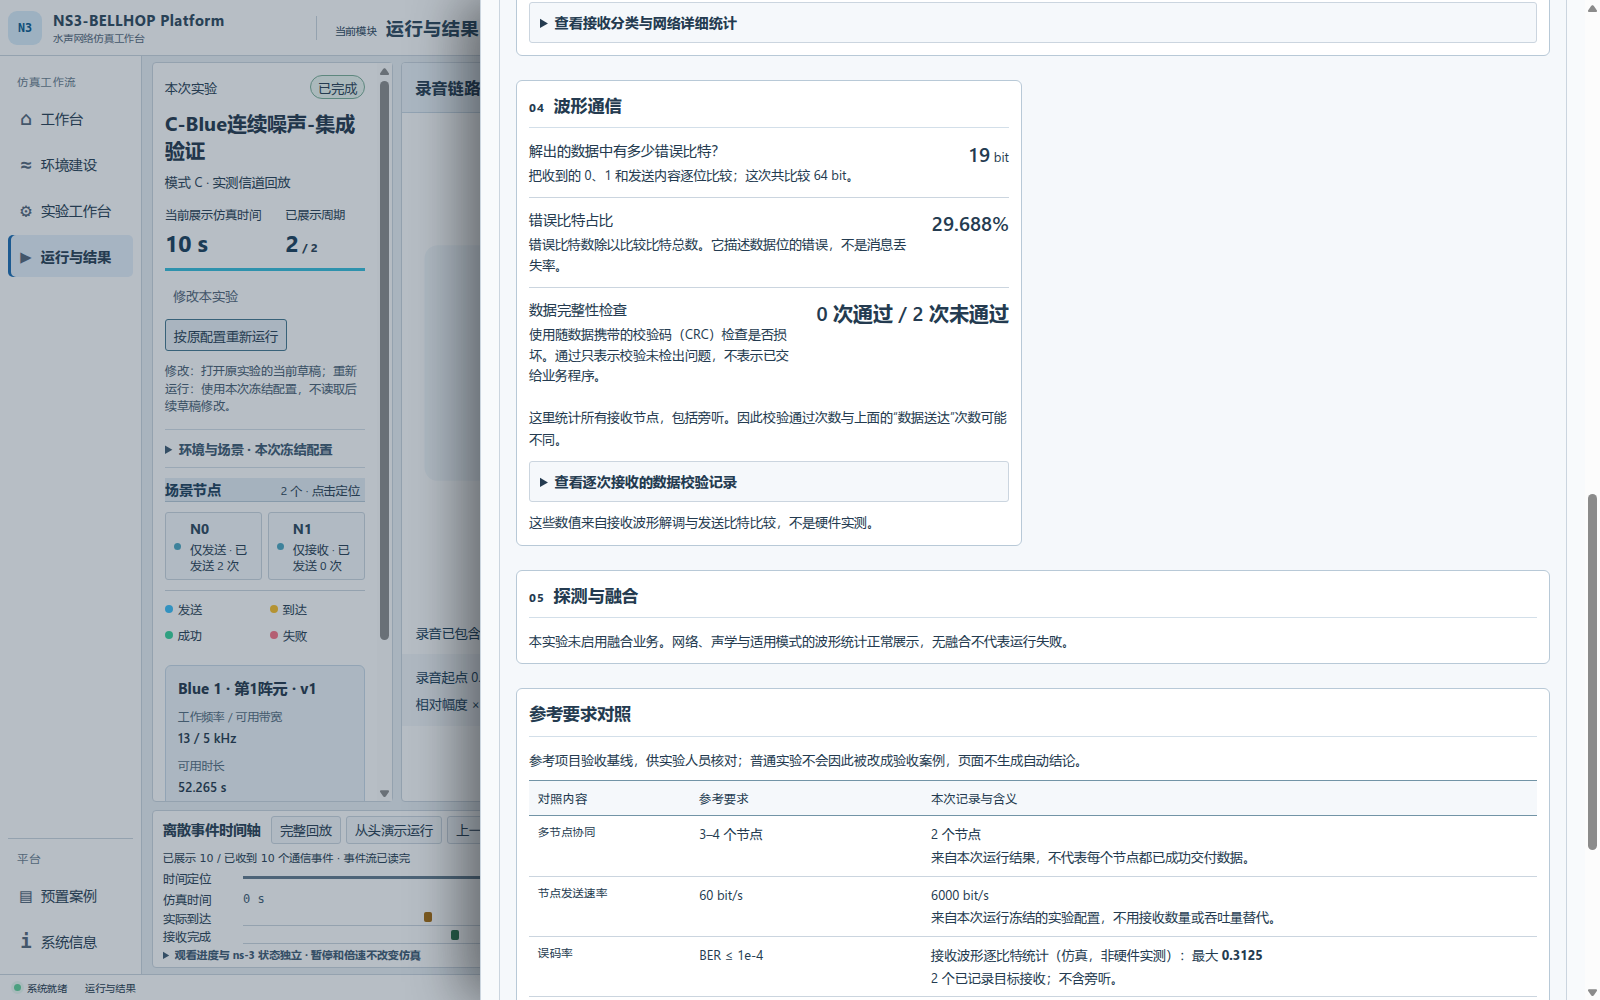
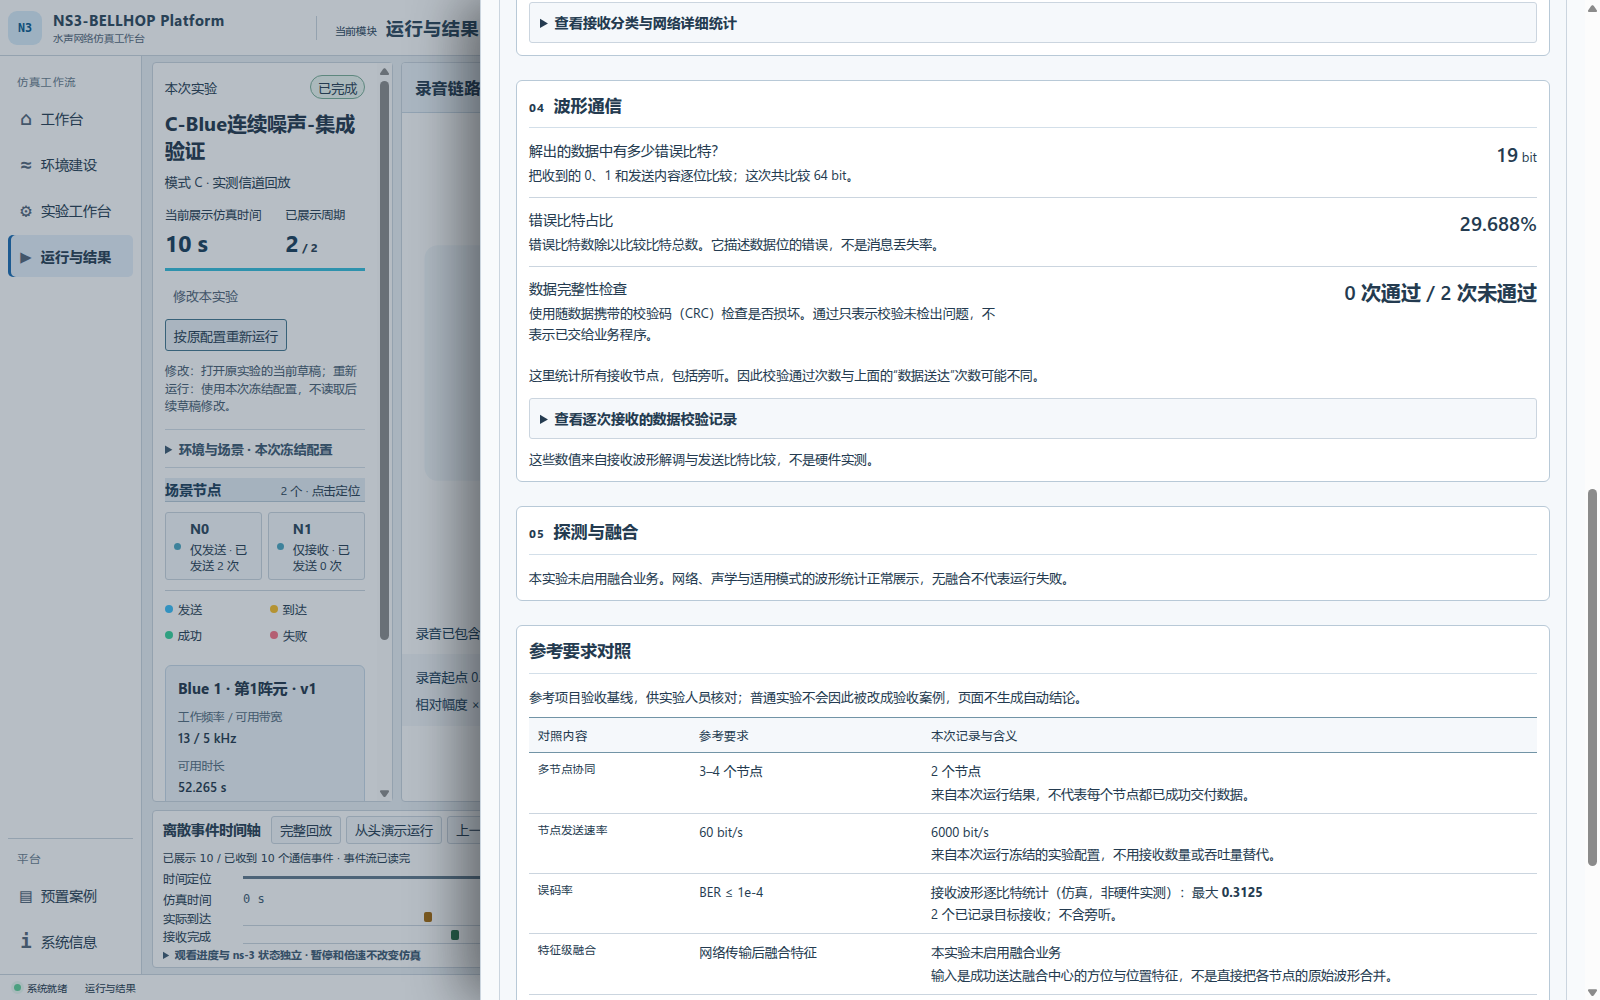
docs: refresh final deployed UI evidence and reproducible runs

diff --git a/Platform/docs/channel3/closeout.md b/Platform/docs/channel3/closeout.md
@@ -11,7 +11,7 @@
 | 2 OSDM 正式接入 | B 模式增加调制选项及 6 项分块/同步参数；规划使用含训练、CRC、补齐、CP 的实际时长；同步失败正常返回未解码 | 通用 authored worker、无噪声/AWGN/Wenz、强噪声及原算法回归通过；页面保存重开和运行通过 |
 | 3 官方等价回放 | 原生 C++ 时变卷积、相位、延迟漂移、非整数时钟重采样；官方离线连续噪声，运行时按时间切片 | 5 组合成数值分支 + 真实 Blue 第 1 阵元；相对 L2 最大 2.50e-13，小于项目门槛 1e-6；无拟合对齐 |
 | 4 资源与执行链 | 不可变录音/噪声资源、精确版本、正式静止轨迹、authored v4、run-owned provider；原通用 ns-3 执行链 | 无噪声/连续噪声两组真实 C E2E；重复一致；版本、覆盖、损坏反例拒绝；不访问 Bellhop 作为 fallback |
-| 5 前端与操作 | 同一工作台切换 C；录音与噪声选择、OSDM 配置、链路示意、同一运行/结果页；原实验重开 | 页面实际保存、运行、回放、查看结果、重跑、改错；275 项前端测试通过；截图逐张检查 |
+| 5 前端与操作 | 同一工作台切换 C；录音与噪声选择、OSDM 配置、链路示意、同一运行/结果页；原实验重开 | 页面实际保存、运行、回放、查看结果、重跑、改错；275 项前端测试通过；截图逐张检查，B 的 OSDM 窄栏与 C 结果空列已作最后样式收口 |
 | 6 回归与原位部署 | ON/OFF、原案例/算法包、性能检查；保全数据，先验证旧包可恢复，再更新原入口 | ON 124/124，OFF 82/82；所有原算法包保留；仅 4182/8012 主入口，保持运行 |
 
 这里的“官方等价”限于锁定库作者参考实现及已测数据/分支，不是国际标准认证，不能外推为所有海域、所有调制配置均可成功解码。
@@ -21,12 +21,12 @@
 - 基线：`7468e59df88348c304a0eb3f03ecc0be67d58b0b`。
 - 普通合入队友分支 `feature/channel12-comparison-experiment` 的 `34ca091242e85a0a5cafffc071358c6c93309be6`，包含 C 原始功能；未覆盖当前通用执行及 ALG-02 接口。
 - 核心/后台受测源码：`23b27dcbf42cc6748fe6170810db72e7c9c36b44`。
-- 最终前端受测源码：`1155584cce6eed1aa43daa5b7523c9cf82ab8268`。相对核心提交只改前端、相关测试和源数据锁定清单；没有重新生成未经测试的仿真程序。
+- 最终前端受测源码：`090d6891dbd88726621727860f1a4a20671fd68b`。相对核心提交，运行代码只改前端，另有相关测试、文档和源数据锁定清单；没有重新生成未经测试的仿真程序。
[3 lines of base64/hex data omitted]
 - 主入口：`http://127.0.0.1:4182`；API：`http://127.0.0.1:8012`；原脚本 `./start-platform.sh`。
-- 本机配置：`Platform/.runtime/current-system.env`。后台固定于 `channel3-system-23b27dc/Platform/backend/src`，前端固定于 `channel3-frontend-DGyfKJdY`；用户数据继续使用原 `retained-system/data`。
-- 发布标识：`OSDM-UWA-INTEGRATION-20261016-UI1155584`。`/system/info` 的 source_revision 是实际后台源码，frontend_release 是实际前端产物，算法程序身份另由安装 manifest 固定。
+- 本机配置：`Platform/.runtime/current-system.env`。后台固定于 `channel3-system-23b27dc/Platform/backend/src`，前端固定于 `channel3-frontend-eZZApcsW`；用户数据继续使用原 `retained-system/data`。
+- 发布标识：`OSDM-UWA-INTEGRATION-20261016-UI090d689`。`/system/info` 的 source_revision 是实际后台源码，frontend_release 是实际前端产物，算法程序身份另由安装 manifest 固定。
 
 保留的算法：`platform.adaptive-tdma`、`user.integration_multifile`、`user.integration_probe`、`example.flow-round-robin`、`user.closeout_probe`。没有用只含内置算法的测试 worker 替换用户累积安装版本。
 
@@ -39,7 +39,7 @@
 | C 新建/保存 | 选择 Blue 第 1 阵元、固定连续噪声、OSDM；生成正式示意端点轨迹和场景，保存后有修订反馈 | `09-final-c-editor.png`；此前保存记录见 pre-ui-polish-runs.json |
 | C 非法输入与恢复 | 录音起点 51 s、实验 10 s；明确报片段不足，不创建替代运行；改回 0 s 后可运行 | `10-c-coverage-rejection.png` |
 | C 运行和结果 | 2 次发送、2 次接收、64 比较位、19 错误位、CRC 0/2、交付 0；Run 完成，解码失败如实保留 | `11-final-c-runtime.png`、`12-final-c-result.png`、`13-final-c-waveform.png` |
[2 lines of base64/hex data omitted]
 | B OSDM | 复用正式三节点场景；从页面配置 0→2 通信流、OSDM、4000 bit/s、无额外噪声；保存、重开、再运行 | `14-final-b-osdm-editor.png`、`15-final-b-runtime.png`；2 Tx、4 Rx、目标交付 2、128 bit 中错误 0、CRC 4/4（含旁听） |
 | A 原案例 | 案例中心选择浅水四节点，运行默认实验 | `16-final-a-runtime.png`；6 Tx、18 Rx、6 目标交付、1 次融合；未改 preset |
 | 播放与筛选 | C 的暂停/单步、实时跟随、结果抽屉、重跑仍使用正式事件；展示控制不重新计算 PHY | 同一 Run 的导出 trace/结果与固定配置重跑一致；C 不再显示虚构坐标和融合数值 |
@@ -48,9 +48,9 @@
 
 最终主入口运行：
 
-- C：`run-e6f01f1689444d2fbc243a7f3c0b07f9`；重跑 `run-71747d5aa07c43358d56107cd9075e6a`。
-- B：`run-f65b88ea37894e5e86445a0c73b103dc`。
-- A：`run-2301c2bc851c4c4c8bd14871089f54d6`。
+- C：`run-5245e92ba0404cdcb7fb69aac8a56822`；重跑 `run-e76cf50f35c54cdc888963429a8052aa`。
+- B：`run-7040d8b606f142dfad275e30f8507690`。
+- A：`run-cf0e0818133745e780f1ecd38d0b1aed`。
 
 以上运行的配置、资源、事件、结果全部归档在 [final-main-runs.json](evidence-20261016/final-main-runs.json)。截图入口见 [证据目录](evidence-20261016/README.md)。
 
@@ -59,7 +59,7 @@
 - ON：124/124；OFF：82/82。分别见 `ctest-on.log` / `ctest-off.log`。
 - 后台套件：342 passed、7 skipped。需外部真实录音的 opt-in 用例另行显式运行，不将 skip 当通过。
 - 已安装的实际程序：`recorded_channel_e2e_test.py` 无噪声/连续噪声 2/2，通过真实 ns-3，精确重跑；缺版本/超时/损坏数据及噪声明确拒绝。
-- OSDM 后台专项 11 项通过；前端 32 文件、275 测试通过；生产构建通过；`git diff --check` 通过。
+- OSDM 后台专项 11 项通过；前端 32 文件、275 测试通过；最终纯 CSS 收口后关联 37 测试复验通过；生产构建通过；`git diff --check` 通过。
 - 官方对照：6 组 replay，真实 Blue 4308 样本，relative L2 `2.498432583387894e-13`；alpha=2 / 1.7 的连续噪声确定性及阵元顺序映射通过。详细值见 `numerical-checks.json`。
 - 已安装程序的两个 C E2E（含各自重跑及反例）墙钟 3.39 s；`/usr/bin/time -v` 最大 RSS 62,648 KiB。这是本机小场景测量，不是所有规模的性能承诺。
 - 正式导入资源：录音约 17 MiB、12 s 连续噪声约 4.8 MiB。目录只返回清单：本机查询录音 1,096 bytes / 1.40 ms、噪声 965 bytes / 1.17 ms；矩阵不进浏览器、日志和 DTO。
